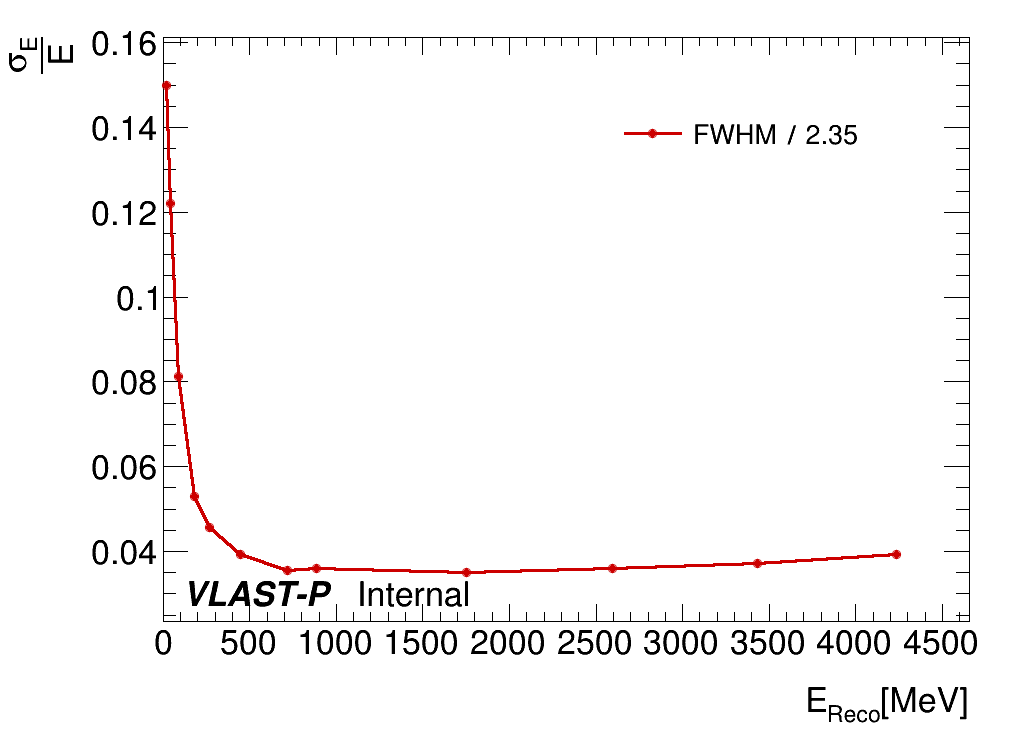
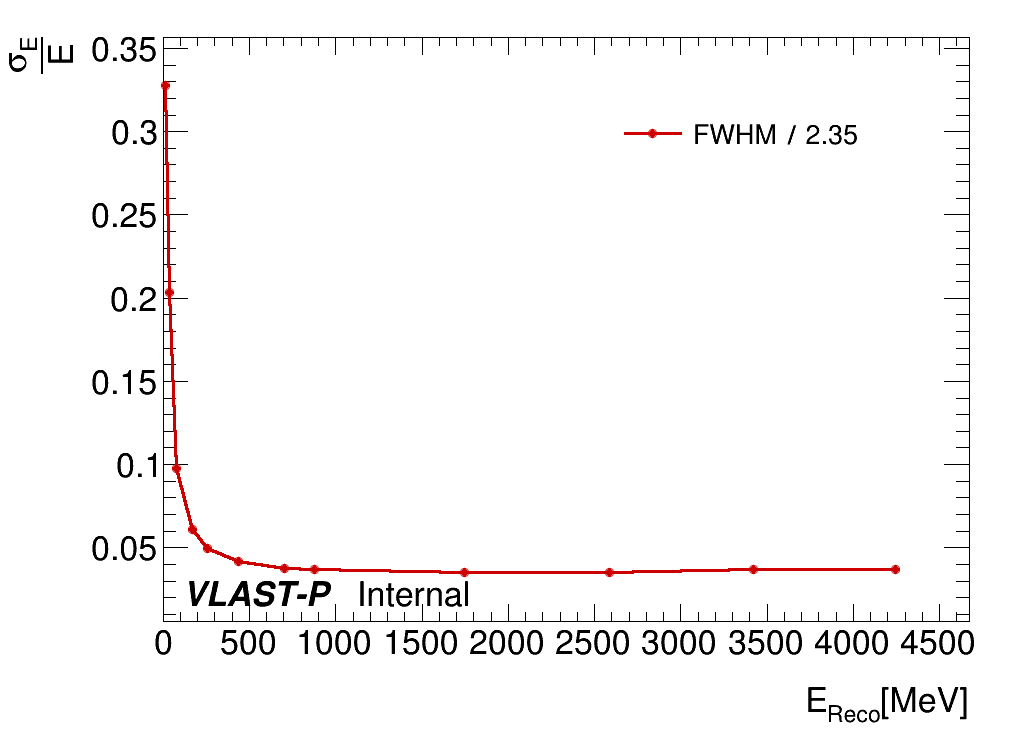
Energy threshold cut at 3 MeV

diff --git a/src/Simulation/HistoManager.cc b/src/Simulation/HistoManager.cc
@@ -135,7 +135,7 @@ void HistoManager::fill(const int &_eventNo)
 		{
 			ecell = ecell * 0.999841;
 		}
-		// ecell = ecell > 3. ? ecell : 0.;
+		ecell = ecell > 3. ? ecell : 0.;
 		ecal_cellid.emplace_back(i.first);
 		ecal_celle.emplace_back(ecell);
 		apd_celle.emplace_back(apdcell);
@@ -150,7 +150,7 @@ void HistoManager::fill(const int &_eventNo)
 		yield = yield + rand->Gaus(0, TMath::Sqrt(yield)) + (m_cfg.Conv_ENoise ? rand->Gaus(0, 1000.) : 0.);
 		conv_e = yield / 2000.; // MeV
 	}
-	// conv_e = conv_e > 3. ? conv_e : 0.;
+	conv_e = conv_e > 3. ? conv_e : 0.;
 	eventNo = _eventNo;
 	// std::cout<<"Ntracks: "<<map_track.size()<<std::endl;
 	for (auto i : map_track)

diff --git a/run/result/plot.py b/run/result/plot.py
@@ -391,7 +391,7 @@ def plot_epangle():
 def plot_reso():
 	# Load some histos from the example file
 	# (Gaussian limits from 2016 TLA conf)
-	infile = ROOT.TFile.Open("result_notrk.root","READ")
+	infile = ROOT.TFile.Open("result.root","READ")
 	histos = []
 	legendLines = []
 	
@@ -504,7 +504,7 @@ def plot_reso():
 	c.Update()
 	
 	# Save the output as a .eps, a .C, and a .root
-	c.SaveAs("reso_notrk.png")
+	c.SaveAs("reso.png")
 
 if __name__=="__main__":
 	plot_reso()
